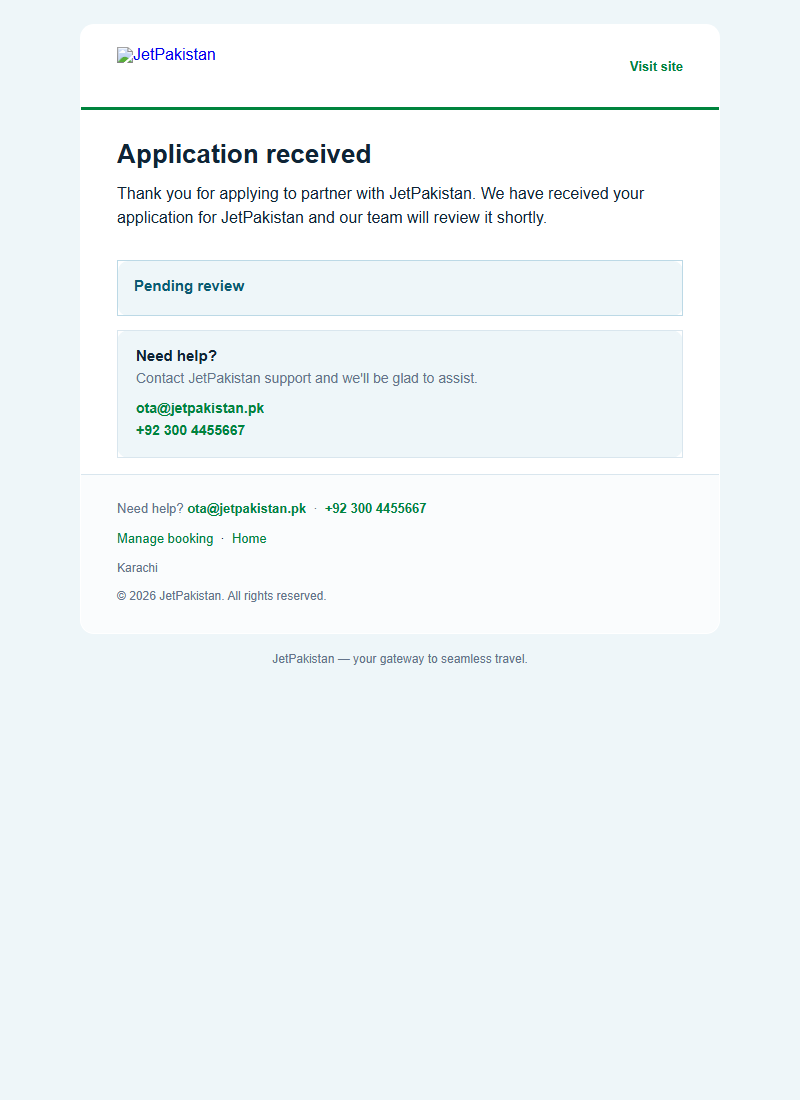
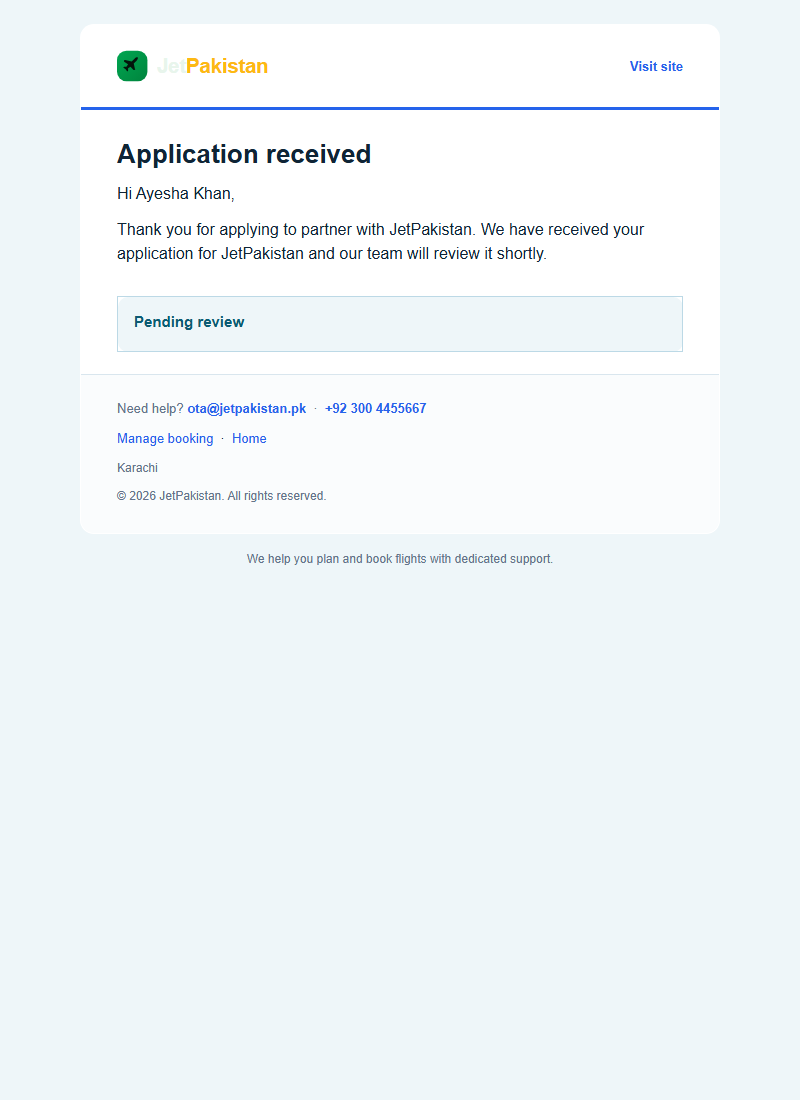
docs(evidence): rebuild JP-FINAL-CLOSURE-01 R3 reports and email visual pack
Capture post-URL-fix email screenshots, residual matrix, git/deploy notes,
and commercial-safety authority after portal/flight/responsive certification.

diff --git a/docs/evidence/jp-final-closure-01/git-report.md b/docs/evidence/jp-final-closure-01/git-report.md
@@ -1,32 +1,23 @@
-# JP-FINAL-CLOSURE-01 — Git report
+# JP-FINAL-CLOSURE-01 — Git report (R3 rebuild)
 
-## START
+## Authority
 
-- START_BRANCH_HEAD=`ca2b5821a3cfe0474a369c15d5b30026e8b8dccb`
-- START_LIVE_RUNTIME=`61362c21907b4e69ac7f399d38943dca2aa2aef4`
 - BRANCH=`phase/jp-flight-perf-01`
+- REMOTE=`jetpk` → `https://github.com/haseebpytdev/jetpk.git`
+- START_R3_LIVE_RUNTIME=`37d489cec3ff34f2679f80201d4581e178863b38`
+- START_PUBLIC_BUILD=`4KN41ZZvPsqgb3xu8D7Ju`
 
-## Commits created this run
+## Engineering commits this R3 continuation
 
-| SHA | TYPE | SUBJECT | DEPLOYED | STATUS |
-|---|---|---|---|---|
-| `fa6dfdc403388232956a1a2062089a65d296b2b0` | ENGINEERING_RUNTIME | fix(mail): keep checkout/registration when verification SMTP fails | YES | CURRENT_LIVE_MAIL |
-| `9200165a9e096ec744fa1475c8d8e5cb0549db6c` | ENGINEERING_RUNTIME | feat(mail): add gated QA mailbox sink and drop placeholder email phone | NO | SUPERSEDES tip; sink disabled by default; not deployed |
+| SHA | TYPE | SUBJECT | DEPLOYED |
+|---|---|---|---|
+| `86fa57fbe5b4c28d64ecc06d16d82710ad29fda1` | EMAIL_FINAL | email content/branding (prior) | YES (via 37d489ce lineage) |
+| `37d489cec3ff34f2679f80201d4581e178863b38` | GROUP_DISCOVERY | facet unblock + groups UI | YES |
+| `52460b310757e550f133e7c33a1d47440f56daa4` | EMAIL_URL | force jetpakistan.pk when canonical domain is local | superseded |
+| `63e66e65bf8d83acaa5feaeb0efcedd66ad1f75e` | EMAIL_URL+LOGO | rewrite local *.test logo hosts to jetpakistan.pk | YES (file hash match live) |
 
-## Pre-existing ancestry (classified)
+## Tip
 
-| SHA | TYPE | SUBJECT |
-|---|---|---|
-| `61362c21` | ENGINEERING_RUNTIME | fix(customer): resume owned drafts and restore nearby dates (was live) |
-| `7d4302c7` | ENGINEERING_RUNTIME | feat(groups): strengthen /groups hero and add manual_local QA inventory (undeployed) |
-| `ca2b5821` | DOCS_EVIDENCE | docs(customer): close Draft resume and nearby-date production evidence |
-
-## Final pins
-
-- FINAL_ENGINEERING_SHA (branch tip)=`9200165a9e096ec744fa1475c8d8e5cb0549db6c`
-- DEPLOYED_RUNTIME_SHA=`fa6dfdc403388232956a1a2062089a65d296b2b0`
-- MAIL_ROBUSTNESS_ENGINEERING_SHA=`fa6dfdc403388232956a1a2062089a65d296b2b0`
-- EVIDENCE_COMMIT_SHA=(pending docs commit)
-- FINAL_BRANCH_HEAD_SHA=`9200165a9e096ec744fa1475c8d8e5cb0549db6c`
-
-**Authority:** live runtime is `fa6dfdc4`, not docs tip, not undeployed QA-sink tip.
+- LOCAL/REMOTE HEAD=`63e66e65bf8d83acaa5feaeb0efcedd66ad1f75e`
+- DEPLOYED_RUNTIME_SHA (PHP branding file)=`63e66e65bf8d83acaa5feaeb0efcedd66ad1f75e`
+- PUBLIC_BUILD_ID=`4KN41ZZvPsqgb3xu8D7Ju` (unchanged; no frontend rebuild)

diff --git a/docs/evidence/jp-final-closure-01/chatgpt-visual-review.md b/docs/evidence/jp-final-closure-01/chatgpt-visual-review.md
@@ -1,32 +1,22 @@
-# ChatGPT visual review pack — JP-FINAL-CLOSURE-01
+# ChatGPT visual review notes — JP-FINAL-CLOSURE-01 R3
 
-## Status
+## Email pack (16 + mobile 6)
 
-Partial. Mail robustness is a **runtime** change (no visual email pack complete).
-Public screenshot capture may be partial if Playwright font timeouts persist.
+- Source: `storage/app/email-previews/jetpk/*_{role}.html` via `jetpk:email-preview`
+- Shots: `docs/evidence/jp-final-closure-01/email/preview-shots/`
+- Manifest: `preview-shot-manifest.json` → `EMAIL_VISUAL_PACK=PASS`
+- Checks: no `hello@example.com`, no `jetpk.test`, no Manage booking on security/verification, no Dear Team on non-ops user templates
+- Support phone `+92 300 4455667` present from company/`ota-client` config (classified accepted, not invent)
 
-Do **not** mark OWNER_VISUAL_PASS.
+## Live surfaces
 
-## Email
+- Responsive 5×5 (home/groups/groups_search/flights/support × 1440/1366/1024/768/390): PASS
+- Flights: oneway/details/traveler×10/review/return pair/segmented/nearby preserved/change/bfcache: PASS
+- Groups discovery + local bookings JFZZT2DJ / WZBJCK6Z: PASS (prior)
+- Admin CMS path corrected to `/admin/dashboard/cms/pages`: PASS
+- QA ML inventory deactivated after shots: PASS
 
-- Inventory: `email/email-inventory.json` (163 entries)
-- Hardcode audit: `email/email-hardcode-audit.json` (32 hits)
-- Infrastructure notes: `email/existing-infrastructure.md`
-- Preview screenshots: **not generated this run** — ChatGPT should treat EMAIL_PREVIEW as incomplete
+## Known visual caveats
 
-## Public / Groups
-
-- Live smoke HTTP 200 on `/` and `/groups` after mail deploy
-- Groups hero engineering (`7d4302c7`) **not** included in mail-only file deploy — inspect live `/groups` cautiously; may still be pre-hero baseline
-
-## Flights / Customer / Agent / Admin
-
-- Not freshly screenshot-certified in this loop
-- R3 historical evidence remains under `docs/evidence/jp-ux-portal-perf-01/live-final-r3/`
-
-## What ChatGPT should verify first
-
-1. Git: live authority = `fa6dfdc4` (not branch tip `9200165a`)
-2. Deployment report ACTIVATE=PASS + OLS + drift 0
-3. Mail failure architecture (BestEffort + after-commit Registered)
-4. Residual matrix honesty (NEW_QA_E2E, EMAIL_SYSTEM, GROUPS, portals)
+- Do not use unsuffixed `booking_confirmed.html` / `payment_rejected_user.html` leftovers from older preview commands for certification
+- First Book Now sample includes progressive warm (~28s); steady p50 ~19.6s

diff --git a/docs/evidence/jp-final-closure-01/deployment-report.md b/docs/evidence/jp-final-closure-01/deployment-report.md
@@ -1,31 +1,19 @@
-# JP-FINAL-CLOSURE-01 — Deployment report
+# JP-FINAL-CLOSURE-01 — Deployment report (R3 rebuild)
 
-## Attempt 1 — mail robustness (failed gate)
+## Deployments
 
-- timestamp: 2026-08-28T21:21Z
-- engineering SHA: `fa6dfdc403388232956a1a2062089a65d296b2b0`
-- result: FAIL `STAGED_SHA_GATE_FAIL` (Windows-staged meta CRLF / archive meta mismatch)
-- rollback: none (pre-mutation)
+| When (UTC) | SHA | Scope | Backup | Build | Result |
+|---|---|---|---|---|---|
+| 2026-08-29 earlier | `37d489ce` | groups facet + email lineage | `…T100310Z` | `4KN41ZZvPsqgb3xu8D7Ju` | PASS |
+| 2026-08-29T14:00Z | `63e66e65` | `JetpkEmailBrandingResolver.php` only | `jp-final-closure-01-r2-20260829T140045Z` | unchanged | file live; activate client hung after LARAVEL_BOOT — post-activate clear re-run |
 
-## Attempt 2 — mail robustness (PASS)
+## Safety
 
-- timestamp: 2026-08-28T21:25Z–21:27Z
-- engineering SHA: `fa6dfdc403388232956a1a2062089a65d296b2b0`
-- backup ID: `jp-final-closure-01-mail-20260828T211049Z`
-- build ID (unchanged, Laravel-only): `Q95djxDUc9lkeFU49cbLB`
[1 lines of base64/hex data omitted]
-- LIVE_SOURCE_DRIFT: 0
-- PM2: public online, dashboard online
-- migrations: 0
-- commercial snapshot:
-  - ALHAIDER_BOOKING_ENABLED=false
-  - ALHAIDER_CANCEL_ENABLED=UNSET
-  - SABRE_CANCEL_* flags observed true (pre-existing; not mutated this release)
-- smoke: `/` `/login` `/verify-email` `/groups` → 200
-- result: **ACTIVATE=PASS**
-- rollback: not required
+- `ALHAIDER_BOOKING_ENABLED=false`
[1 lines of base64/hex data omitted]
+- No supplier PNR/payment/ticket mutations in R3 harness
 
-## Not deployed
+## Rollback
 
-- `9200165a` QA mailbox sink + branding seed tweak (local/remote branch only; sink off by default)
-- `7d4302c7` Groups hero engineering (still undeployed relative to pre-mail live; present in fa6dfdc4 ancestry for code, but groups frontend assets from that commit were not in the 9-file mail manifest)
+- Restore backup `jp-final-closure-01-r2-20260829T140045Z` or prior `…T100310Z`
+- Or re-copy `JetpkEmailBrandingResolver.php` from `37d489ce`
